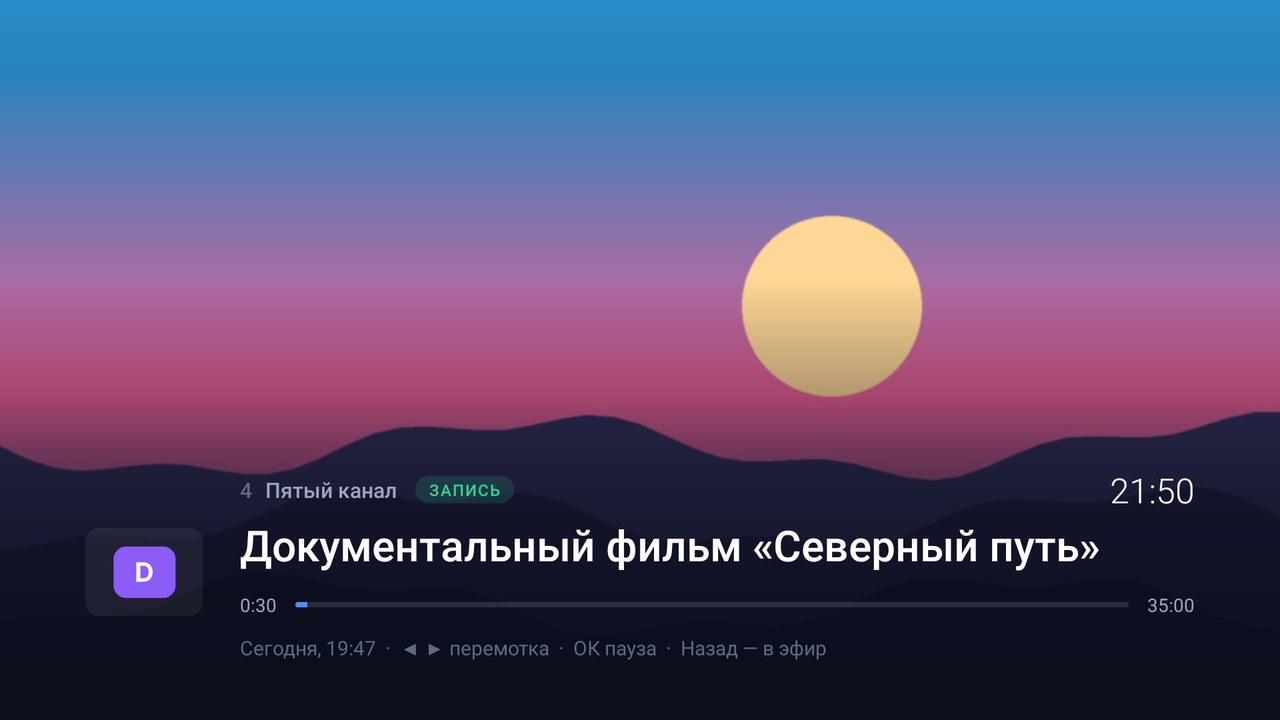
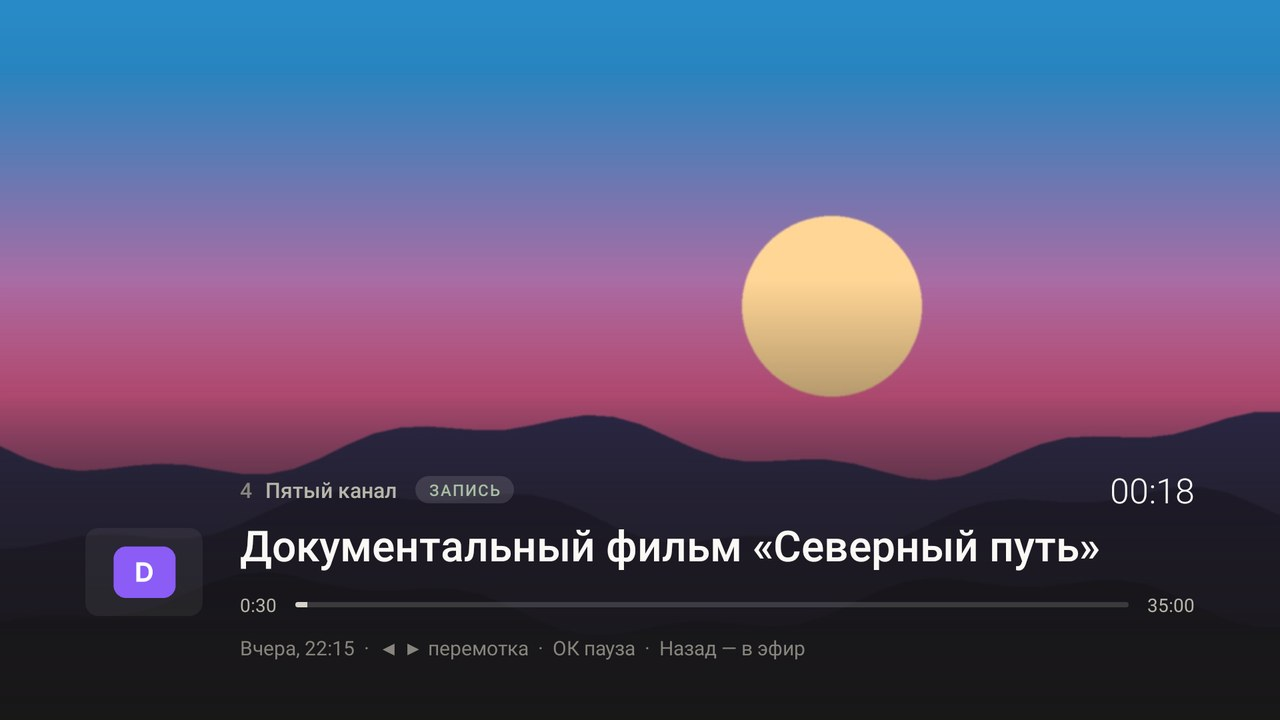
Серая тема и плавающие карточки вместо сплошных колонок
- тёплая серая гамма вместо синей, один акцентный цвет
- панель каналов, группы и программа — отдельные скруглённые карточки
- мягкая подсветка выбранной строки, играющий канал выделен цветом названия
- новый значок, баннер и заставка в серых тонах

Claude-Session: https://claude.ai/code/session_01B1ShhQc2Jwi9mzaoyMmunW

diff --git a/app/src/main/java/com/volnalabs/tv/ui/Widgets.kt b/app/src/main/java/com/volnalabs/tv/ui/Widgets.kt
@@ -69,8 +69,8 @@ class LetterDrawable(name: String, private val density: Float) : Drawable() {
 
     companion object {
         private val COLORS = intArrayOf(
-            0xFF4F8CFF.toInt(), 0xFF7C6CF2.toInt(), 0xFF22B8A7.toInt(), 0xFFE0707A.toInt(),
-            0xFFE39A3B.toInt(), 0xFF5B9BD5.toInt(), 0xFF9B6BD6.toInt(), 0xFF3FAE7A.toInt(),
+            0xFF5E5C55.toInt(), 0xFF6E6A60.toInt(), 0xFF57554F.toInt(), 0xFF777266.toInt(),
+            0xFF66635B.toInt(), 0xFF4F4D48.toInt(),
         )
     }
 }
@@ -127,7 +127,7 @@ class LoadingView @JvmOverloads constructor(context: Context, attrs: AttributeSe
 class SplashView @JvmOverloads constructor(context: Context, attrs: AttributeSet? = null) : AnimatedView(context, attrs) {
     private val mark = Paint(Paint.ANTI_ALIAS_FLAG)
     private val glow = Paint(Paint.ANTI_ALIAS_FLAG)
-    private val play = Paint(Paint.ANTI_ALIAS_FLAG).apply { color = Color.WHITE }
+    private val play = Paint(Paint.ANTI_ALIAS_FLAG).apply { color = 0xFF262624.toInt() }
     private val title = Paint(Paint.ANTI_ALIAS_FLAG).apply {
         color = Color.WHITE
         textAlign = Paint.Align.CENTER
@@ -143,7 +143,7 @@ class SplashView @JvmOverloads constructor(context: Context, attrs: AttributeSet
     var caption: String = ""
         set(value) { field = value; invalidate() }
     private val captionPaint = Paint(Paint.ANTI_ALIAS_FLAG).apply {
-        color = 0xFF5E6B85.toInt()
+        color = 0xFF87857D.toInt()
         textAlign = Paint.Align.CENTER
         textSize = 14 * resources.displayMetrics.scaledDensity
     }
@@ -162,14 +162,14 @@ class SplashView @JvmOverloads constructor(context: Context, attrs: AttributeSet
         val breathe = 0.5f + 0.5f * sin(t * 1.6f)
         glow.shader = android.graphics.RadialGradient(
             cx, cy, size * (1.25f + 0.15f * breathe),
-            intArrayOf(Color.argb((70 * intro * (0.6f + 0.4f * breathe)).toInt(), 79, 140, 255), Color.TRANSPARENT),
+            intArrayOf(Color.argb((20 * intro * (0.6f + 0.4f * breathe)).toInt(), 240, 238, 230), Color.TRANSPARENT),
             null, Shader.TileMode.CLAMP,
         )
         canvas.drawCircle(cx, cy, size * 1.4f, glow)
 
         // Значок: скруглённый квадрат с градиентом и треугольником «play»
         rect.set(cx - size / 2, cy - size / 2, cx + size / 2, cy + size / 2)
-        mark.shader = LinearGradient(rect.left, rect.top, rect.right, rect.bottom, 0xFF4F8CFF.toInt(), 0xFF7B6CF6.toInt(), Shader.TileMode.CLAMP)
+        mark.shader = LinearGradient(rect.left, rect.top, rect.right, rect.bottom, 0xFFF5F3EC.toInt(), 0xFFD6D2C4.toInt(), Shader.TileMode.CLAMP)
         mark.alpha = alpha
         canvas.drawRoundRect(rect, size * 0.28f, size * 0.28f, mark)
         val r = size * 0.2f
@@ -235,7 +235,7 @@ class ToggleView @JvmOverloads constructor(context: Context, attrs: AttributeSet
 
     override fun onDraw(canvas: Canvas) {
         rect.set(0f, 0f, width.toFloat(), height.toFloat())
-        track.color = blend(0xFF8A94A6.toInt(), 0xFF4F8CFF.toInt(), position)
+        track.color = blend(0xFF5E5C55.toInt(), 0xFFD97757.toInt(), position)
         canvas.drawRoundRect(rect, height / 2f, height / 2f, track)
         val r = height / 2f - 3 * dp
         val cx = height / 2f + (width - height) * position

diff --git a/app/src/main/java/com/volnalabs/tv/remote/RemoteInputServer.kt b/app/src/main/java/com/volnalabs/tv/remote/RemoteInputServer.kt
@@ -129,17 +129,17 @@ class RemoteInputServer(
         <meta name="viewport" content="width=device-width,initial-scale=1">
         <title>$title</title>
         <style>
-          body{margin:0;font-family:system-ui,-apple-system,sans-serif;background:#0b1220;color:#e8eefc;
+          body{margin:0;font-family:system-ui,-apple-system,sans-serif;background:#262624;color:#faf9f5;
                display:flex;justify-content:center;padding:24px}
           main{width:100%;max-width:520px}
           h1{font-size:24px;margin:8px 0 20px}
-          label{display:block;font-size:14px;color:#9fb0d0;margin:16px 0 6px}
-          input{width:100%;box-sizing:border-box;padding:14px;border-radius:12px;border:1px solid #2a3a5c;
-                background:#121c30;color:#fff;font-size:16px}
-          button{margin-top:24px;width:100%;padding:16px;border:0;border-radius:12px;background:#3b82f6;
+          label{display:block;font-size:14px;color:#b8b5aa;margin:16px 0 6px}
+          input{width:100%;box-sizing:border-box;padding:14px;border-radius:12px;border:1px solid #45443f;
+                background:#30302e;color:#fff;font-size:16px}
+          button{margin-top:24px;width:100%;padding:16px;border:0;border-radius:12px;background:#d97757;
                  color:#fff;font-size:17px;font-weight:600}
-          .ok{color:#7ee2a8;font-size:18px}.err{color:#ff8a8a}a{color:#8ab4ff}
-        </style></head><body><main><h1>📺 $title</h1>$content</main></body></html>
+          .ok{color:#a9bfa4;font-size:18px}.err{color:#e0795c}a{color:#d97757}
+        </style></head><body><main><h1>$title</h1>$content</main></body></html>
     """.trimIndent()
 
     companion object {

diff --git a/app/src/main/java/com/volnalabs/tv/ui/MainActivity.kt b/app/src/main/java/com/volnalabs/tv/ui/MainActivity.kt
@@ -197,6 +197,8 @@ class MainActivity : Activity() {
         epgTitle = findViewById(R.id.epgTitle)
         epgHint = findViewById(R.id.epgHint)
         epgEmpty = findViewById(R.id.epgEmpty)
+        // Карточки со скруглёнными углами: содержимое списков не вылезает за края.
+        for (id in intArrayOf(R.id.groupsColumn, R.id.channelsColumn, R.id.epgColumn)) findViewById<View>(id).clipToOutline = true
         // Колонки групп и программы видны, только пока в них фокус — панель остаётся лёгкой.
         panel.viewTreeObserver.addOnGlobalFocusChangeListener { _, newFocus -> updateColumns(newFocus) }
     }

diff --git a/app/src/main/java/com/volnalabs/tv/ui/UpdateActivity.kt b/app/src/main/java/com/volnalabs/tv/ui/UpdateActivity.kt
@@ -29,7 +29,7 @@ class UpdateActivity : Activity() {
                 else findViewById<TextView>(R.id.updateText).text =
                     "Не получилось открыть установщик. Разрешите приложению IPTV установку из неизвестных источников в настройках телевизора и попробуйте ещё раз."
             }
-            requestFocusFromTouch()
+            post { requestFocusFromTouch() }
         }
         findViewById<View>(R.id.later).setOnClickListener {
             Updater.postponed = ready.version
